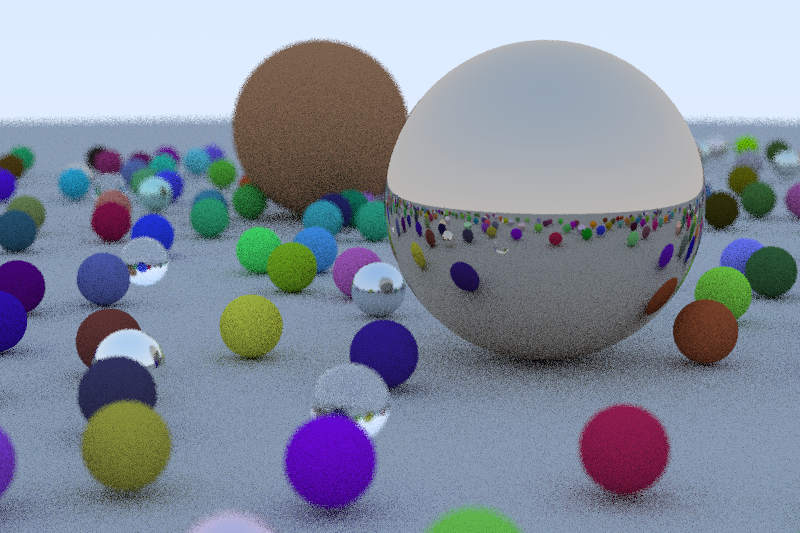
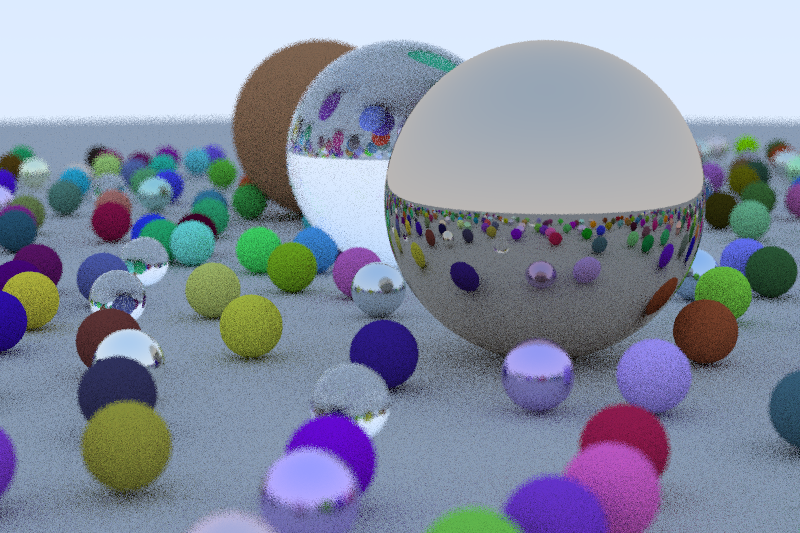
fix for simd hit with qbvh

Changed region(s): [[0.0, 0.06, 1.0, 1.0], [0.9688, 0.9306, 1.0, 1.0], [0.3125, 0.0901, 0.3438, 0.1501]]

diff --git a/src/spatial.rs b/src/spatial.rs
@@ -179,9 +179,8 @@ fn hit_simd(world: &World, start: usize, len: usize, r: Ray, t_min: f32, t_max: 
     let first_idx = start as i32;
     let mut cur_id = i32x4::set(first_idx, first_idx + 1, first_idx + 2, first_idx + 3);
 
-    let end = start + len;
-    let sphere_count = end - (end % SIMD_WIDTH) - SIMD_WIDTH;
-    for i in (start..sphere_count).step_by(SIMD_WIDTH) {
+    let end = start + len - (len % SIMD_WIDTH);
+    for i in (start..end).step_by(SIMD_WIDTH) {
         let vel_x =  f32x4::loadu(&world.animations.velocity_x[i..i+4]);
         let vel_y =  f32x4::loadu(&world.animations.velocity_y[i..i+4]);
         let vel_z =  f32x4::loadu(&world.animations.velocity_z[i..i+4]);
@@ -321,7 +320,7 @@ fn hit_spheres(world: &World, start: usize, len: usize, ray: Ray, t_min: f32, t_
         }
         
         let end = start + len;
-        found_hit |= hit(world, end - (end % SIMD_WIDTH), end % SIMD_WIDTH, ray, t_min, closest_t, out_hit);
+        found_hit |= hit(world, end - (len % SIMD_WIDTH), len % SIMD_WIDTH, ray, t_min, closest_t, out_hit);
     }
     else {
         found_hit = hit(world, start, len, ray, t_min, closest_t, out_hit);
@@ -347,8 +346,8 @@ impl QBVH {
         
         if child.is_leaf() {
             let (c_idx, c_count) = child.leaf_get_idx_count();
-            // if hit(world, c_idx as usize, c_count as usize, r, t_min, *closest_t, out_hit) {
-            if hit_spheres(world, c_idx as usize, c_count as usize, r, t_min, *closest_t, out_hit) {
+            if hit(world, c_idx as usize, c_count as usize, r, t_min, *closest_t, out_hit) {
+            // if hit_spheres(world, c_idx as usize, c_count as usize, r, t_min, *closest_t, out_hit) {
                 *hit_any_node = true;
                 *closest_t = out_hit.t;
             }

diff --git a/src/main.rs b/src/main.rs
@@ -297,14 +297,8 @@ fn main() {
     let start_t = 0.0;
     let end_t = 0.0;
 
-    let obj_count = objects.len();
-
-    // let mut bvh_tree : Vec<BVHNode> = Vec::new();
-    // let mut bvh_root = BVHNode::new();
-    // construct_bvh(&mut objects, start_t, end_t, &mut bvh_tree, &mut bvh_root, 0, obj_count);
-    // let bvh = BVH { root: bvh_root, tree: bvh_tree };
-
     let mut bvh = QBVH::new();
+    let obj_count = objects.len();
     bvh.build(&mut objects, 0, obj_count, -1, 0, 0, start_t, end_t);
 
     let world = World::construct(&objects);
